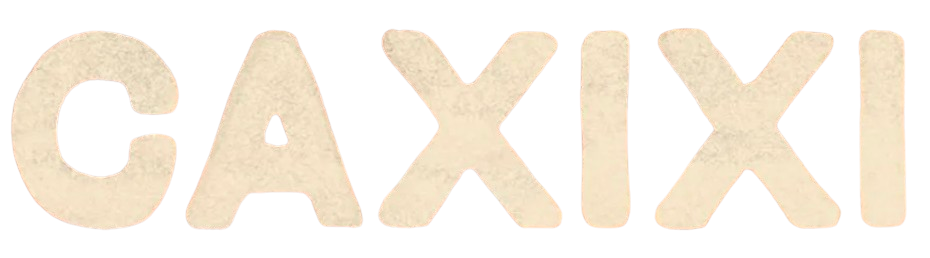
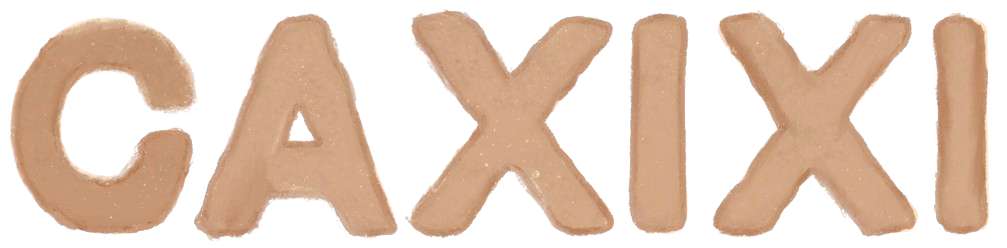
refactor: ui

diff --git a/routes/create.vue.js b/routes/create.vue.js
@@ -39,7 +39,7 @@ window.CreatePage = {
       <!-- Main Content -->
       <main class="max-w-4xl mx-auto px-4 pt-4 relative z-10">
         <!-- Form Content - Only shown when not generating story -->
-        <div v-if="screen === 'form'" class="bg-neutral-light/80 rounded-lg p-8 shadow-lg border border-neutral-dark">
+        <div v-if="screen === 'form'" class="bg-neutral-light/80 rounded-lg p-8 shadow-lg border border-neutral-dark card-rustic">
           <div class="mb-8 text-center">
             <h1 class="font-heading font-bold text-3xl text-secondary-dark mb-2">Criar Uma História</h1>
             <p class="text-black font-body">Personalize a história com o nome do seu filho e suas preferências</p>
@@ -61,7 +61,7 @@ window.CreatePage = {
             
             <!-- Brazilian Fauna Selection -->
             <div class="form-group">
-              <label class="block font-heading font-bold text-lg text-secondary-dark mb-2">Animal Favorito da Fauna Brasileira</label>
+              <label class="block font-heading font-bold text-lg text-secondary-dark mb-2">Elemento da Cultura Baiana</label>
               <div class="grid grid-cols-2 md:grid-cols-3 gap-3">
                 <div v-for="animal in brazilianAnimals" :key="animal.id" 
                      @click="selectAnimal(animal)"
@@ -112,7 +112,7 @@ window.CreatePage = {
         </div>
         
         <!-- Loading Screen - Shown when generating story -->
-        <div v-if="screen === 'generating'" class="bg-neutral-light/80 rounded-lg p-8 shadow-lg border border-neutral-dark text-center">
+        <div v-if="screen === 'generating'" class="bg-neutral-light/80 rounded-lg p-8 shadow-lg border border-neutral-dark text-center card-rustic">
           <div class="mb-8">
             <div class="w-24 h-24 mx-auto mb-4 relative overflow-hidden rounded-full">
               <div class="absolute inset-0 rounded-full bg-primary/20 animate-pulse duration-1000"></div>
@@ -187,7 +187,7 @@ window.CreatePage = {
         <!-- Story Result Screen -->
         <div v-if="screen === 'result'" class="relative">
           <!-- Story Container -->
-          <div class="bg-neutral-light/90 rounded-lg p-8 shadow-lg border border-neutral-dark relative overflow-hidden">
+          <div class="bg-neutral-light/90 rounded-lg p-8 shadow-lg border border-neutral-dark relative overflow-hidden card-rustic">
             <div class="flex flex-col gap-8">
               <!-- Story Header -->
               <div class="flex flex-col items-center">
@@ -319,33 +319,33 @@ window.CreatePage = {
       brazilianAnimals: [
         {
           id: 1,
-          name: "Mico-Leão-Dourado",
-          icon: "fas fa-paw"
+          name: "Caxixi",
+          icon: "fas fa-drum"
         },
         {
           id: 2,
-          name: "Onça-Pintada",
-          icon: "fas fa-cat"
+          name: "Saveiro",
+          icon: "fas fa-ship"
         },
         {
           id: 3,
-          name: "Lobo-Guará",
-          icon: "fas fa-dog"
+          name: "Olaria",
+          icon: "fas fa-hands"
         },
         {
           id: 4,
-          name: "Tucano-Toco",
-          icon: "fas fa-kiwi-bird"
+          name: "Guará",
+          icon: "fas fa-feather-alt"
         },
         {
           id: 5,
-          name: "Arara-Azul",
-          icon: "fas fa-dove"
+          name: "Samba de Roda",
+          icon: "fas fa-music"
         },
         {
           id: 6,
-          name: "Boto-Cor-de-Rosa",
-          icon: "fas fa-fish"
+          name: "Cerâmica",
+          icon: "fas fa-paint-brush"
         }
       ],
       
@@ -353,33 +353,33 @@ window.CreatePage = {
       storyLocations: [
         {
           id: 1,
-          name: "Floresta Amazônica",
-          icon: "fas fa-tree"
+          name: "Maragogipinho",
+          icon: "fas fa-home"
         },
         {
           id: 2,
-          name: "Pantanal",
-          icon: "fas fa-water"
+          name: "Jaguaripe",
+          icon: "fas fa-map-marker-alt"
         },
         {
           id: 3,
-          name: "Cerrado",
-          icon: "fas fa-seedling"
+          name: "Rio",
+          icon: "fas fa-water"
         },
         {
           id: 4,
-          name: "Chapada Diamantina",
-          icon: "fas fa-mountain"
+          name: "Mangue",
+          icon: "fas fa-tree"
         },
         {
           id: 5,
-          name: "Litoral Brasileiro",
-          icon: "fas fa-umbrella-beach"
+          name: "Em Cima do Saveiro",
+          icon: "fas fa-anchor"
         },
         {
           id: 6,
-          name: "Mata Atlântica",
-          icon: "fas fa-leaf"
+          name: "Beira do Rio",
+          icon: "fas fa-umbrella-beach"
         }
       ]
     };
@@ -416,7 +416,7 @@ window.CreatePage = {
         this.taskStatus.plot = "processing";
         
         // Create the story title and plot first
-        const storyTitle = `${this.childName} e o ${this.selectedAnimal.name} na ${this.selectedLocation.name}`;
+        const storyTitle = `${this.childName} e o ${this.selectedAnimal.name} de ${this.selectedLocation.name}`;
         const storyPlot = this.generateMockStory();
         
         // Create a story object with title and plot
@@ -627,23 +627,23 @@ window.CreatePage = {
     
     generateMockStory() {
       // Create a story with properly formatted paragraphs using double line breaks
-      return `Era uma vez ${this.childName}, uma criança muito curiosa que adorava conhecer os animais da natureza brasileira. Em uma viagem especial à ${this.selectedLocation.name}, ${this.childName} estava muito animado para explorar este lugar maravilhoso.
+      return `Era uma vez ${this.childName}, uma criança muito curiosa que adorava conhecer as histórias e tradições da Bahia. Em uma viagem especial à ${this.selectedLocation.name}, ${this.childName} estava muito animado para explorar este lugar cheio de cultura e magia.
 
-Enquanto caminhava entre as árvores, observando as flores e ouvindo os sons da natureza, ${this.childName} viu algo se movendo entre as folhagens. Para sua surpresa, era um ${this.selectedAnimal.name} que o observava com olhos curiosos!
+Enquanto caminhava próximo ao rio, observando os saveiros passarem e sentindo a brisa mansa, ${this.childName} viu algo brilhando na margem. Para sua surpresa, era um ${this.selectedAnimal.name} de forma única e encantadora.
 
-"Olá," disse ${this.childName} gentilmente. "Não vou machucar você."
+"Olá," disse ${this.childName} gentilmente, tocando suavemente o objeto.
 
-Para sua surpresa, o ${this.selectedAnimal.name} se aproximou e começou a falar! "Olá, ${this.childName}! Meu nome é Tiba, e sou o guardião desta parte da ${this.selectedLocation.name}. Estou procurando ajuda para proteger nossa casa."
+Para sua surpresa, um velho oleiro surgiu de trás de uma pequena oficina e sorriu. "Vejo que você encontrou meu ${this.selectedAnimal.name} especial. Sabia que aqui em ${this.selectedLocation.name}, fazemos estes artesanatos há mais de cem anos?"
 
-${this.childName} ficou maravilhado. "Eu adoraria ajudar! O que está acontecendo?"
+${this.childName} ficou maravilhado. "Eu adoraria aprender! Como vocês fazem isso?"
 
-Tiba explicou que as nascentes de água estavam secando porque algumas pessoas estavam desmatando áreas importantes. "Precisamos mostrar a elas como a natureza é importante para todos nós."
+O oleiro, que se chamava Seu Tião, explicou que o barro vinha do mangue, e que cada peça contava uma história do rio, dos pescadores e da vida ribeirinha. "Nossos antepassados nos ensinaram a transformar o barro em arte, e nós passamos esse conhecimento de geração em geração."
 
-Assim, ${this.childName} e Tiba embarcaram em uma grande aventura, conversando com outros animais e aprendendo sobre o delicado equilíbrio da natureza na ${this.selectedLocation.name}. Juntos, eles plantaram sementes, limparam trilhas e até mesmo conversaram com visitantes sobre a importância de preservar o ambiente.
+Assim, ${this.childName} e Seu Tião embarcaram em uma grande aventura pelo rio em um saveiro colorido, conhecendo os segredos do mangue, os sons do samba de roda, e aprendendo como fazer miniaturas de barro. Juntos, eles moldaram pequenos caxixis, barquinhos e figuras que contavam histórias da Bahia.
 
-No final do dia, Tiba presenteou ${this.childName} com uma semente mágica. "Plante esta semente em seu jardim. Ela crescerá e lembrará você da nossa amizade e da importância de cuidar da natureza."
+No final do dia, Seu Tião presenteou ${this.childName} com um pequeno caxixi feito por suas próprias mãos. "Leve este caxixi como lembrança. Quando você o balançar, vai ouvir o som do rio e se lembrar de nós."
 
-${this.childName} voltou para casa cheio de histórias incríveis para contar e com um novo propósito: ajudar a proteger os animais e a natureza brasileira. E toda vez que olhava para a pequena árvore que crescia de sua semente mágica, lembrava-se de seu amigo ${this.selectedAnimal.name} e da aventura maravilhosa que tiveram na ${this.selectedLocation.name}.`;
+${this.childName} voltou para casa cheio de histórias incríveis para contar e com um novo tesouro: não apenas o caxixi, mas também as memórias das cores, dos sons e dos saberes da cultura baiana. E toda vez que balançava seu caxixi, lembrava-se do ${this.selectedAnimal.name} e da aventura maravilhosa que teve em ${this.selectedLocation.name}, onde o rio serpenteia e os saveiros navegam sob um céu de estrelas guias.`;
     },
     
     goBack() {

diff --git a/routes/index.vue.js b/routes/index.vue.js
@@ -38,10 +38,10 @@ window.IndexPage = {
                     </div>
                     
                     <!-- Main heading with handmade text style -->
-                    <h1 class="font-heading font-bold text-4xl md:text-5xl leading-tight text-center m-0 text-primary-dark">{{ $t('home.welcome') }}</h1>
+                    <h1 class="font-heading font-bold text-3xl md:text-4xl leading-tight text-center m-0 text-primary-dark">{{ $t('home.welcome') }}</h1>
                     
                     <!-- Subheading -->
-                    <p class="font-body text-lg text-[#A67C52] text-center max-w-md">Histórias encantadoras da fauna brasileira para crianças, criadas com inteligência artificial</p>
+                    <p class="font-body text-lg text-[#A67C52] text-center max-w-md">Uma viagem até Maragogipinho e Jaguaripe, Bahia, que embarca pelo rio, seja ele na beira, no mangue ou em cima de um saveiro.</p>
                         
                         <!-- CTA section -->
                         <div class="flex flex-col items-center w-full gap-2">
@@ -55,33 +55,33 @@ window.IndexPage = {
                                 </span>
                             Criar Uma História
                             </button>
-                        <p class="font-body font-normal text-sm leading-[1.67] text-[#A67C52] m-0 mt-2">Experimente agora! É gratuito e leva apenas 30 segundos.</p>
+                        <p class="font-body font-normal text-sm leading-[1.67] text-[#A67C52] m-0 mt-2">Embarque em uma nova história! Das tradições, das gerações, do coração.</p>
                                     </div>
                                     
                     <!-- Nosso Diferencial Section -->
                     <section class="py-12 px-6 max-w-7xl mx-auto">
-                        <h2 class="font-heading text-2xl md:text-3xl font-bold text-secondary-dark text-center mb-6">Nosso Diferencial</h2>
+                        <h2 class="font-heading text-2xl md:text-3xl font-bold text-secondary-dark text-center mb-6">Conheça Nossa Arte</h2>
                         
                         <div class="grid grid-cols-1 md:grid-cols-2 gap-8 mt-8">
                             <!-- Card 1 -->
-                            <div class="bg-neutral-light/70 rounded-lg overflow-hidden shadow-md border border-neutral-dark transform transition hover:scale-[1.02] min-h-[220px]">
+                            <div class="bg-neutral-light/70 rounded-lg overflow-hidden shadow-md border border-neutral-dark card-rustic">
                                 <div class="p-6 flex flex-col items-center h-full">
                                     <div class="text-primary mb-3 flex justify-center">
-                                        <i class="fas fa-child text-4xl"></i>
+                                        <i class="fas fa-water text-4xl"></i>
                                     </div>
-                                    <h3 class="font-heading font-bold text-xl text-secondary-dark mb-2 text-center">Histórias Personalizadas</h3>
-                                    <p class="font-body text-[#A67C52] max-w-xl text-justify">Cada história é única e personalizada para seu filho.</p>
+                                    <h3 class="font-heading font-bold text-xl text-secondary-dark mb-2 text-center">Arte e Cultura Ribeirinha</h3>
+                                    <p class="font-body text-[#A67C52] max-w-xl text-center">Uma fábula que começa no chão e mistura com a água.</p>
                                 </div>
                             </div>
                             
                             <!-- Card 2 -->
-                            <div class="bg-neutral-light/70 rounded-lg overflow-hidden shadow-md border border-neutral-dark transform transition hover:scale-[1.02] min-h-[220px]">
+                            <div class="bg-neutral-light/70 rounded-lg overflow-hidden shadow-md border border-neutral-dark card-rustic">
                                 <div class="p-6 flex flex-col items-center h-full">
                                     <div class="text-primary mb-3 flex justify-center">
-                                        <i class="fas fa-globe-americas text-4xl"></i>
+                                        <i class="fas fa-paint-brush text-4xl"></i>
                                     </div>
-                                    <h3 class="font-heading font-bold text-xl text-secondary-dark mb-2 text-center">Fauna Brasileira</h3>
-                                    <p class="font-body text-[#A67C52] max-w-xl text-justify">Conectando crianças com a rica biodiversidade do Brasil de forma lúdica e educativa.</p>
+                                    <h3 class="font-heading font-bold text-xl text-secondary-dark mb-2 text-center">Caxixi</h3>
+                                    <p class="font-body text-[#A67C52] max-w-xl text-center">Brinquedos, miniaturas e presentes. A primeira peça de um oleiro.</p>
                                 </div>
                             </div>
                         </div>

diff --git a/routes/story.vue.js b/routes/story.vue.js
@@ -17,7 +17,7 @@ window.StoryPage = {
             </nav>
 
             <!-- Loading State -->
-            <div v-if="loading" class="max-w-4xl mx-auto px-6 py-12 flex flex-col items-center justify-center min-h-[70vh] bg-neutral-light/70 rounded-lg shadow-lg border border-neutral-dark">
+            <div v-if="loading" class="max-w-4xl mx-auto px-6 py-12 flex flex-col items-center justify-center min-h-[70vh] bg-neutral-light/70 rounded-lg shadow-lg border border-neutral-dark card-rustic">
                 <div class="relative w-20 h-20 mb-6">
                     <div class="absolute inset-0 rounded-full bg-primary/20 animate-pulse duration-3000"></div>
                     <div class="absolute inset-3 rounded-full bg-primary/40 animate-pulse duration-4000"></div>
@@ -28,7 +28,7 @@ window.StoryPage = {
             </div>
 
             <!-- Error State -->
-            <div v-else-if="error" class="max-w-4xl mx-auto px-6 py-12 flex flex-col items-center justify-center min-h-[70vh] bg-neutral-light/70 rounded-lg shadow-lg border border-neutral-dark">
+            <div v-else-if="error" class="max-w-4xl mx-auto px-6 py-12 flex flex-col items-center justify-center min-h-[70vh] bg-neutral-light/70 rounded-lg shadow-lg border border-neutral-dark card-rustic">
                 <div class="relative w-20 h-20 mb-6">
                     <i class="fas fa-exclamation-circle text-5xl text-secondary-dark absolute left-1/2 top-1/2 transform -translate-x-1/2 -translate-y-1/2"></i>
                     <div class="absolute inset-0 rounded-full bg-primary/10"></div>
@@ -49,7 +49,7 @@ window.StoryPage = {
             </div>
 
             <!-- Story Display -->
-            <main v-else class="max-w-4xl mx-auto bg-neutral-light/70 rounded-lg shadow-lg border border-neutral-dark">
+            <main v-else class="max-w-4xl mx-auto bg-neutral-light/70 rounded-lg shadow-lg border border-neutral-dark card-rustic">
                 <div class="px-6 md:p-8 relative">                    
                     <!-- Story Content -->
                     <div class="mb-8">
@@ -154,7 +154,7 @@ window.StoryPage = {
                     </div>
                     
                     <!-- Story Settings (Collapsible) -->
-                    <details v-if="story" class="bg-neutral-light/70 border border-neutral-dark rounded-lg p-4 shadow-sm mb-8 group">
+                    <details v-if="story" class="bg-neutral-light/70 border border-neutral-dark rounded-lg p-4 shadow-sm mb-8 group card-rustic">
                         <summary class="text-secondary-dark font-medium cursor-pointer flex items-center justify-between">
                             <div class="flex items-center">
                                 <i class="fa-solid fa-gear mr-2 text-primary"></i>

diff --git a/routes/my-stories.vue.js b/routes/my-stories.vue.js
@@ -32,7 +32,7 @@ window.MyStoriesPage = {
         
         <!-- Stories Grid -->
         <div v-if="stories.length > 0" class="grid grid-cols-1 md:grid-cols-2 gap-6">
-          <div v-for="story in stories" :key="story.id" class="bg-neutral-light/70 rounded-lg overflow-hidden shadow-lg border border-neutral-dark transform transition hover:scale-[1.02]">
+          <div v-for="story in stories" :key="story.id" class="bg-neutral-light/70 rounded-lg overflow-hidden shadow-lg border border-neutral-dark card-rustic">
             <div class="flex flex-col h-full">
               <!-- Story Image -->
               <div class="h-48 overflow-hidden bg-tertiary flex items-center justify-center relative">
@@ -74,7 +74,7 @@ window.MyStoriesPage = {
                     </div>
                     
         <!-- Empty State -->
-        <div v-else class="bg-neutral-light/70 rounded-lg p-8 shadow-lg border border-neutral-dark text-center">
+        <div v-else class="bg-neutral-light/70 rounded-lg p-8 shadow-lg border border-neutral-dark text-center card-rustic">
           <div class="mb-8">
             <div class="w-24 h-24 mx-auto mb-4 relative">
               <i class="fas fa-book text-primary text-4xl absolute left-1/2 top-1/2 transform -translate-x-1/2 -translate-y-1/2"></i>

diff --git a/index.html b/index.html
@@ -172,6 +172,7 @@
             position: relative;
             overflow: hidden;
             border-radius: 12px;
+            border: 1px solid #DEE2E6; /* border-neutral-dark */
             transform: none;
             transition: all 0.3s ease;
             box-shadow: 0 4px 6px rgba(0, 0, 0, 0.15);
@@ -179,6 +180,19 @@
         
         .btn-rustic:hover {
             transform: scale(1.05);
+            box-shadow: 0 6px 8px rgba(0, 0, 0, 0.2);
+        }
+        
+        /* Cards with the rustic styling */
+        .card-rustic {
+            border-radius: 16px;
+            border: 1px solid #DEE2E6;
+            overflow: hidden;
+            transition: all 0.3s ease;
+            box-shadow: 0 4px 6px rgba(0, 0, 0, 0.15);
+        }
+        
+        .card-rustic:hover {
             box-shadow: 0 6px 8px rgba(0, 0, 0, 0.2);
         }
         
